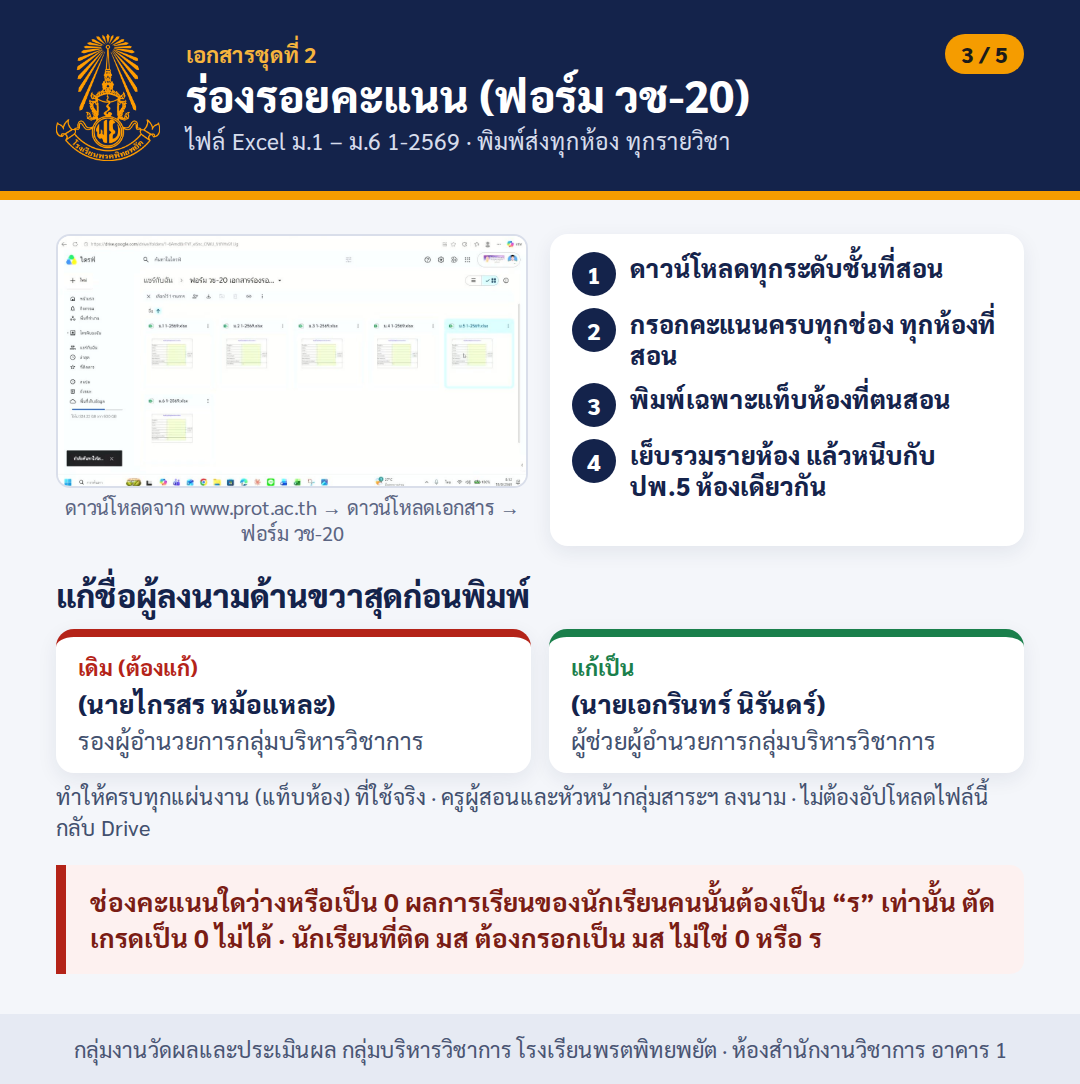
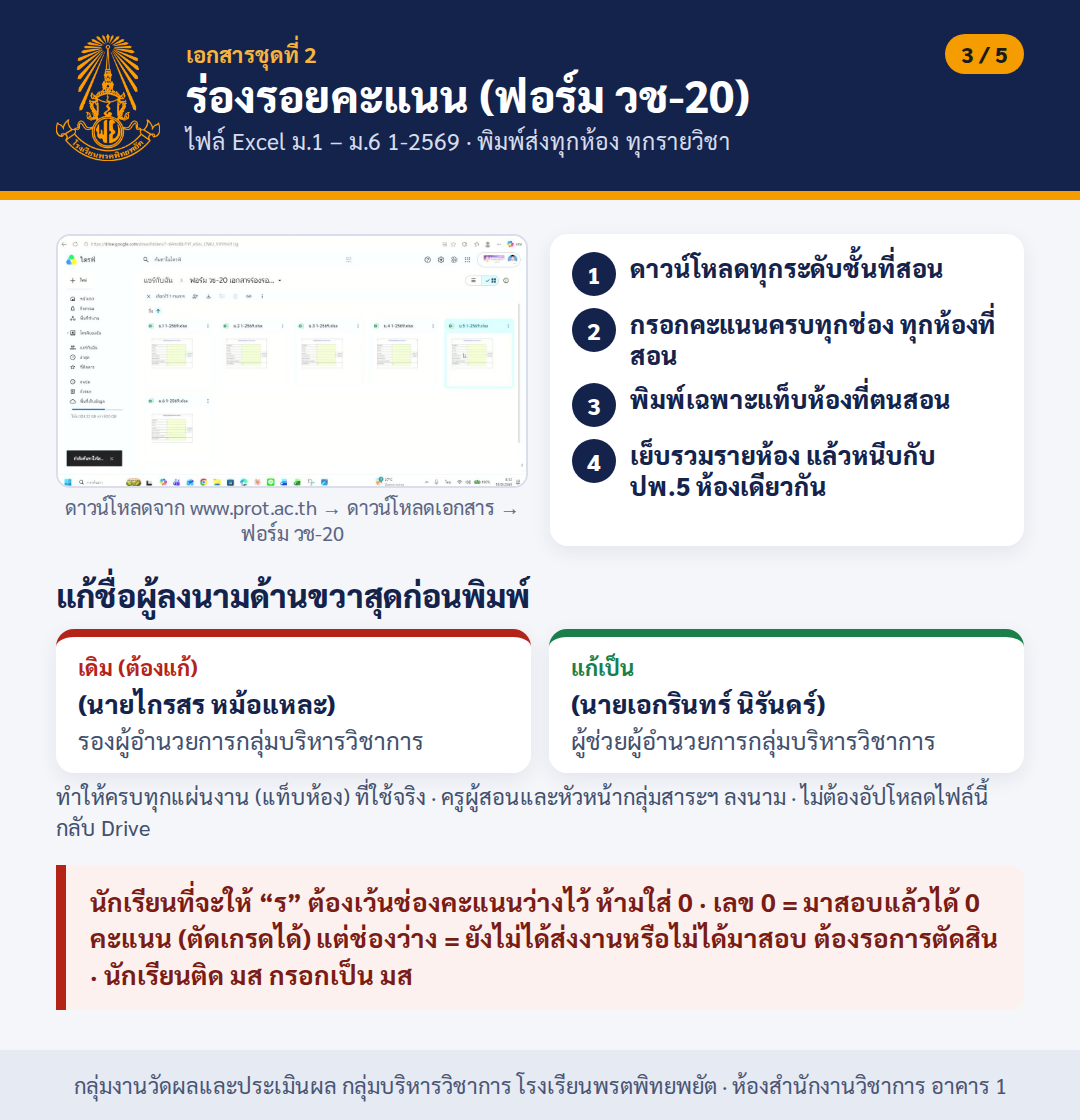
Add files via upload

diff --git a/index.html b/index.html
@@ -374,14 +374,14 @@ footer b{color:#fff}
           <p>ดาวน์โหลดจากเว็บไซต์โรงเรียน หรือโฟลเดอร์ “ฟอร์ม วช-20 เอกสารร่องรอย ปพ.5” ใน Google Drive กรอกคะแนนให้ครบสมบูรณ์ทุกห้องที่สอน แล้วพิมพ์เฉพาะแท็บของห้องที่ตนเองสอน</p>
           <dl class="spec">
             <dt>ดาวน์โหลด</dt><dd>ทุกระดับชั้นที่สอน (ไฟล์ละ 1 ระดับชั้น มีแท็บย่อยตามห้อง)</dd>
-            <dt>การกรอก</dt><dd>กรอกคะแนนให้สมบูรณ์ก่อนพิมพ์ ห้ามเว้นช่องว่างหรือใส่ 0 โดยไม่ตั้งใจ</dd>
+            <dt>การกรอก</dt><dd>กรอกคะแนนให้ครบทุกคนที่มีคะแนนจริงก่อนพิมพ์ นักเรียนที่จะให้ผลการเรียน “ร” ให้<b>เว้นช่องคะแนนว่างไว้ ไม่ใส่ 0</b></dd>
             <dt>การพิมพ์</dt><dd>พิมพ์แยกรายห้อง เย็บรวมเป็นชุดของห้องนั้น</dd>
             <dt>ครูผู้สอนลงนาม</dt><dd>1 จุด ต่อ 1 ห้อง</dd>
             <dt>ผู้ลงนามอื่น</dt><dd>หัวหน้ากลุ่มสาระฯ 1 จุด และผู้ช่วยผู้อำนวยการกลุ่มบริหารวิชาการ (ส่วนกลาง) — ผู้ตรวจทานทั้ง 2 รอบไม่ต้องลงนามในเอกสารนี้</dd>
             <dt>อัปโหลด</dt><dd>ไม่ต้องอัปโหลดไฟล์ ส่งเฉพาะฉบับพิมพ์</dd>
           </dl>
           <div class="warn"><b>ตรวจชื่อผู้ลงนามด้านขวาสุดก่อนพิมพ์</b> ต้องเป็น <b>(นายเอกรินทร์ นิรันดร์) ผู้ช่วยผู้อำนวยการกลุ่มบริหารวิชาการ</b> หากยังเป็นชื่อเดิม (นายไกรสร หม้อแหละ) ให้แก้ให้ครบทุกแผ่นงานที่ใช้จริง</div>
-          <div class="warn"><b>จุดที่ผิดพลาดบ่อยที่สุด:</b> หากช่องคะแนนใดว่างหรือเป็น 0 เพราะนักเรียนไม่ได้ส่งงานหรือไม่ได้สอบ ผลการเรียนของนักเรียนคนนั้นต้องเป็น <b>“ร”</b> เท่านั้น จะตัดเกรดเป็น 0 ไม่ได้</div>
+          <div class="warn"><b>จุดที่ผิดพลาดบ่อยที่สุด:</b> นักเรียนที่ไม่ได้ส่งงานหรือไม่ได้มาสอบ และจะให้ผลการเรียน <b>“ร”</b> ต้อง<b>เว้นช่องคะแนนนั้นว่างไว้ ห้ามใส่ 0</b> เพราะเลข 0 สื่อว่านักเรียนมาสอบหรือส่งงานแล้วแต่ได้ 0 คะแนน ซึ่งจะถูกตัดเกรดเป็น 0 ส่วนช่องว่างสื่อว่านักเรียนยังไม่ได้ส่งงานหรือไม่ได้มาสอบ จึงยังตัดสินผลไม่ได้และต้องรอการตัดสิน (ร) ข้อมูลในร่องรอยคะแนนกับผลการเรียนใน Prot CARE ต้องสอดคล้องกัน</div>
         </div>
         <div>
           <div class="shot" data-full="guide-download-wch20.jpg" data-cap="วิธีดาวน์โหลดฟอร์ม วช-20 จากเว็บไซต์โรงเรียน"><img src="guide-download-wch20.jpg" alt="วิธีดาวน์โหลดฟอร์ม วช-20"></div>
@@ -620,7 +620,7 @@ footer b{color:#fff}
       <li><input type="checkbox"><div><b>พิมพ์ ปพ.5 ครบ 3 ส่วน แยกรายห้อง</b><div class="sub">ปก + ปพ5-2 + ปพ5-2 อ่านคิดวิเคราะห์ เย็บมุมหัวกระดาษ ปก 1 ใบต่อ 1 ห้อง</div></div></li>
       <li><input type="checkbox"><div><b>ลงนามใน ปพ.5 เฉพาะช่องครูผู้สอน</b><div class="sub">เว้นช่องผู้ตรวจทาน 2 ช่องใน ปพ5-2 ไว้ว่าง</div></div></li>
       <li><input type="checkbox"><div><b>ดาวน์โหลดไฟล์ร่องรอยคะแนนครบทุกระดับชั้นที่สอน</b><div class="sub">แก้ชื่อผู้ลงนามเป็น (นายเอกรินทร์ นิรันดร์) ผู้ช่วยผู้อำนวยการกลุ่มบริหารวิชาการ ทุกแผ่นงาน</div></div></li>
-      <li><input type="checkbox"><div><b>กรอกคะแนนในร่องรอยคะแนนครบทุกช่อง ทุกห้องที่สอน</b><div class="sub">ช่องว่างหรือ 0 ต้องให้ผลการเรียนเป็น ร เท่านั้น</div></div></li>
+      <li><input type="checkbox"><div><b>กรอกคะแนนในร่องรอยคะแนนครบทุกช่อง ทุกห้องที่สอน</b><div class="sub">นักเรียนที่ให้ ร เว้นช่องคะแนนว่างไว้ ไม่ใส่ 0 · ช่องว่างสื่อว่ายังไม่ได้ส่งงานหรือไม่ได้มาสอบ รอการตัดสิน</div></div></li>
       <li><input type="checkbox"><div><b>พิมพ์ร่องรอยคะแนนเฉพาะห้องที่สอน เย็บรวมรายห้อง แล้วหนีบกับ ปพ.5 ห้องเดียวกัน</b></div></li>
       <li><input type="checkbox"><div><b>ตรวจว่าคะแนนและผลการเรียนตรงกันทั้ง ปพ.5 ร่องรอยคะแนน และแบบ ร</b><div class="sub">นักเรียนคนเดียวกัน รายวิชาเดียวกัน ต้องตรงกันทุกฉบับ</div></div></li>
       <li><input type="checkbox"><div><b>รายวิชาที่มีนักเรียนติด ร: กรอกไฟล์ แบบขออนุมัติผลการเรียน ร 1-2569 พิมพ์ 1 หน้า และลงนาม</b><div class="sub">1 ไฟล์ต่อ 1 รหัสวิชา ตั้งชื่อ รหัสวิชา-ชื่อครู</div></div></li>
@@ -644,7 +644,8 @@ footer b{color:#fff}
       <details><summary>ช่องคุณลักษณะในแบบ ปพ5-2 อ่านคิดวิเคราะห์ ว่างอยู่ ต้องกรอกไหม</summary><div class="a">ไม่ต้อง ระบบ Prot CARE เปิดให้กรอกคุณลักษณะเฉพาะรายวิชากุลบุตร กุลสตรี ศรีพรต เท่านั้น ครูประจำวิชาอื่นกรอกเฉพาะการอ่าน คิดวิเคราะห์ และเขียน</div></details>
       <details><summary>รหัสวิชาที่กรอกในแบบ ร ไม่ขึ้นชื่อรายวิชา แต่ขึ้นว่าให้พิมพ์เอง</summary><div class="a">รหัสวิชานั้นใช้ใน 2 หลักสูตร (หลักสูตรเดิมและหลักสูตรใหม่) ไฟล์จึงเว้นให้ครูพิมพ์ชื่อรายวิชาที่ตนสอนเอง พิมพ์ทับข้อความในช่องรายวิชาได้เลย</div></details>
       <details><summary>ครูที่สอนวิชาการป้องกันการทุจริต ให้ใครลงนามเป็นหัวหน้ากลุ่มสาระฯ</summary><div class="a">ช่องหัวหน้ากลุ่มสาระฯ ในแบบ ร ต้องเป็น (นายชัยวัฒน์ สมสุข) แต่ครูยังไม่ต้องขอลายเซ็นเอง ให้ส่งเอกสารมาที่งานวิชาการ ส่วนกลางจะรวบรวมไปให้ลงนามในคราวเดียว</div></details>
-      <details><summary>ไฟล์ร่องรอยคะแนนต้องอัปโหลดเข้า Drive ไหม</summary><div class="a">ไม่ต้อง พิมพ์ส่งฉบับกระดาษเท่านั้น ไฟล์ที่ต้องอัปโหลดมีเฉพาะไฟล์ Excel แบบขออนุมัติผล ร</div></details>
+      <details><summary>นักเรียนที่จะให้ “ร” ต้องกรอกคะแนนในร่องรอยคะแนนอย่างไร</summary><div class="a">ให้<b>เว้นช่องคะแนนของงานหรือการสอบที่นักเรียนไม่ได้ส่งหรือไม่ได้มาสอบว่างไว้ ไม่ใส่ 0</b> เหตุผลคือ เลข 0 หมายความว่านักเรียนมาสอบหรือส่งงานแล้วแต่ได้ 0 คะแนน ระบบจึงตัดเกรดได้ (เป็น 0) ส่วนช่องว่างหมายความว่านักเรียนยังไม่ได้ส่งงานหรือไม่ได้มาสอบเลย จึงยังตัดสินผลไม่ได้และต้องรอการตัดสิน ซึ่งตรงกับความหมายของ “ร” เมื่อนักเรียนมาสอบแก้ตัวหรือส่งงานแล้ว ค่อยกรอกคะแนนจริงลงไป ส่วนนักเรียนที่ติด มส ให้กรอกเป็น มส ตามเดิม</div></details>
+<details><summary>ไฟล์ร่องรอยคะแนนต้องอัปโหลดเข้า Drive ไหม</summary><div class="a">ไม่ต้อง พิมพ์ส่งฉบับกระดาษเท่านั้น ไฟล์ที่ต้องอัปโหลดมีเฉพาะไฟล์ Excel แบบขออนุมัติผล ร</div></details>
       <details><summary>เอกสารที่ส่งไปจะได้คืนเมื่อไร</summary><div class="a">ไม่ได้คืน หลังครูที่ปรึกษาตรวจวันที่ 22 กันยายน และครูแก้ไขข้อผิดพลาด (ถ้ามี) เรียบร้อยแล้ว กลุ่มงานวัดผลจะเก็บเอกสารทั้งหมดไว้เป็นหลักฐาน โปรดเก็บไฟล์ต้นฉบับไว้เอง</div></details>
       <details><summary>ครูอัตราจ้าง ครูผู้ช่วย ครูต่างชาติ ต้องส่งด้วยไหม</summary><div class="a">ต้องส่งเช่นเดียวกับครูผู้สอนทุกท่าน ในทุกรายวิชาที่ตัดสินผล</div></details>
     </div>
